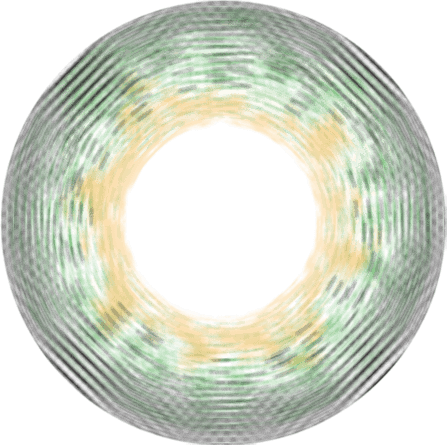
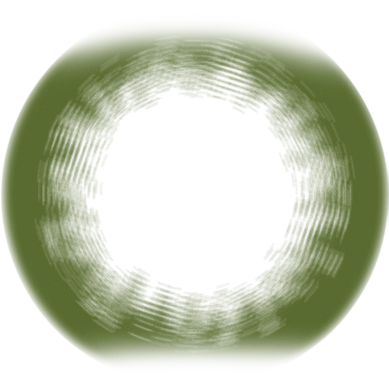
.

diff --git a/src/WebcamFeed.js b/src/WebcamFeed.js
@@ -2,17 +2,28 @@ import React, { useRef, useEffect, useState } from "react";
 import Webcam from "react-webcam";
 import * as faceMeshLib from "@mediapipe/face_mesh";
 import * as cam from "@mediapipe/camera_utils";
-import lensImage1 from "../src/lens1.png";
-import lensImage2 from "../src/lens2.png";
-import lensImage3 from "../src/trs1.png";
-import lensImage4 from "../src/trs6.png";
-import lensImage5 from "../src/trs12.png";
-import lensImage6 from "../src/hhh.png";
-import lensImage7 from "../src/lens7.png";
-import lensImage8 from "../src/lens8.png";
-import lensImage9 from "../src/lens9.png";
-import lensImage10 from "../src/lens10.png";
-import lensImage11 from "../src/lens11.png";
+import lensImage1 from "../src/Lens/1.png";
+import lensImage2 from "../src/Lens/2.png";
+import lensImage3 from "../src/Lens/3.png";
+import lensImage4 from "../src/Lens/4.png";
+import lensImage5 from "../src/Lens/5.png";
+import lensImage6 from "../src/Lens/6.png";
+import lensImage7 from "../src/Lens/7.png";
+import lensImage8 from "../src/Lens/8.png";
+import lensImage9 from "../src/Lens/9.png";
+import lensImage10 from "../src/Lens/10.png";
+import lensImage11 from "../src/Lens/11.png";
+import lensBackground1 from "../src/Lens2/1.png";
+import lensBackground2 from "../src/Lens2/2.png";
+import lensBackground3 from "../src/Lens2/3.png";
+import lensBackground4 from "../src/Lens2/4.png";
+import lensBackground5 from "../src/Lens2/5.png";
+import lensBackground6 from "../src/Lens2/6.png";
+import lensBackground7 from "../src/Lens2/7.png";
+import lensBackground8 from "../src/Lens2/8.png";
+import lensBackground9 from "../src/Lens2/9.png";
+import lensBackground10 from "../src/Lens2/10.png";
+import lensBackground11 from "../src/Lens2/11.png";
 import loadingSpinner from "../src/loading-spinner.gif"; // Import your loading spinner image
 
 const WebcamFeed = () => {
@@ -35,6 +46,8 @@ const WebcamFeed = () => {
   const [selectedLens, setSelectedLens] = useState(
     () => parseInt(localStorage.getItem("selectedLens")) || 0
   );
+  const [selectedLensForContainer, setSelectedLensForContainer] = useState(null);
+  const [selectedLensBackground, setSelectedLensBackground] = useState(null);
   const [eyesOpen, setEyesOpen] = useState(true);
   const [loading, setLoading] = useState(true);
   const lensImages = [
@@ -51,6 +64,20 @@ const WebcamFeed = () => {
     lensImage11,
   ];
 
+  const lensBackgroundImages = [
+    lensBackground1,
+    lensBackground2,
+    lensBackground3,
+    lensBackground4,
+    lensBackground5,
+    lensBackground6,
+    lensBackground7,
+    lensBackground8,
+    lensBackground9,
+    lensBackground10,
+    lensBackground11,
+  ];
+
   useEffect(() => {
     const loadLensImages = async () => {
       await Promise.all(
@@ -60,7 +87,7 @@ const WebcamFeed = () => {
         })
       );
 
-      setLoading(true); 
+      setLoading(false); // Set loading to false when images are loaded
       startFaceMesh();
     };
 
@@ -237,12 +264,9 @@ const WebcamFeed = () => {
   };
 
   const handleLensSelection = (index) => {
-    window.location.reload();
     setSelectedLens(index);
-    const canvasCtx = canvasRef.current.getContext("2d");
-    // Access landmarks from the results object
-    const landmarks = lastResults.multiFaceLandmarks[0];
-    drawContactLens(canvasCtx, landmarks);
+    setSelectedLensForContainer(index);
+    setSelectedLensBackground(lensBackgroundImages[index]);
   };
 
   return (
@@ -285,6 +309,22 @@ const WebcamFeed = () => {
           </div>
         ))}
       </div>
+      {selectedLensForContainer !== null && (
+        <div className="selected-lens-container">
+          {selectedLensBackground && (
+            <img
+              src={selectedLensBackground}
+              alt={`Background Lens ${selectedLensForContainer + 1}`}
+              className="selected-lens-background img-fluid"
+            />
+          )}
+          <img
+            src={lensImages[selectedLensForContainer]}
+            alt={`Selected Lens ${selectedLensForContainer + 1}`}
+            className="selected-lens-image img-fluid"
+          />
+        </div>
+      )}
     </div>
   );
 };

diff --git a/src/contact-lens/WebcamFeed.js b/src/contact-lens/WebcamFeed.js
@@ -2,17 +2,17 @@ import React, { useRef, useEffect, useState } from "react";
 import Webcam from "react-webcam";
 import * as faceMeshLib from "@mediapipe/face_mesh";
 import * as cam from "@mediapipe/camera_utils";
-import lensImage1 from "./lens1.png";
-import lensImage2 from "./lens2.png";
-import lensImage3 from "./trs1.png";
-import lensImage4 from "./trs6.png";
-import lensImage5 from "./trs12.png";
-import lensImage6 from "./hhh.png";
-import lensImage7 from "./lens7.png";
-import lensImage8 from "./lens8.png";
-import lensImage9 from "./lens9.png";
-import lensImage10 from "./lens10.png";
-import lensImage11 from "./lens11.png";
+import lensImage1 from "../Lens/1.png";
+import lensImage2 from "../Lens/2.png";
+import lensImage3 from "../Lens/3.png";
+import lensImage4 from "../Lens/4.png";
+import lensImage5 from "../Lens/5.png";
+import lensImage6 from "../Lens/6.png";
+import lensImage7 from "../Lens/7.png";
+import lensImage8 from "../Lens/8.png";
+import lensImage9 from "../Lens/9.png";
+import lensImage10 from "../Lens/10.png";
+import lensImage11 from "../Lens/11.png";
 import loadingSpinner from "./loading-spinner.gif"; // Import your loading spinner image
 
 const WebcamFeed = () => {
@@ -200,7 +200,7 @@ const WebcamFeed = () => {
       const irisSize = Math.min(irisWidth, irisHeight) * 1.8;
 
       // Set transparency level
-      canvasCtx.globalAlpha = 0.7;
+      canvasCtx.globalAlpha = 0.4;
 
       canvasRef.current.style.filter = "blur(2px)";
       // Draw the lens

diff --git a/src/App.css b/src/App.css
@@ -109,3 +109,22 @@
 .lens-image-wrapper:hover .lens-image {
   transform: scale(1.1);
 }
+
+.selected-lens-container {
+  position: relative;
+  margin-top: 20px;
+}
+
+.selected-lens-background {
+  position: absolute;
+  width: 100%;
+  height: 100%;
+  top: 0;
+  left: 0;
+  z-index: -1; /* Ensure the background is behind the lens image */
+}
+
+.selected-lens-image {
+  position: relative;
+  z-index: 1; /* Ensure the lens image is on top */
+}
